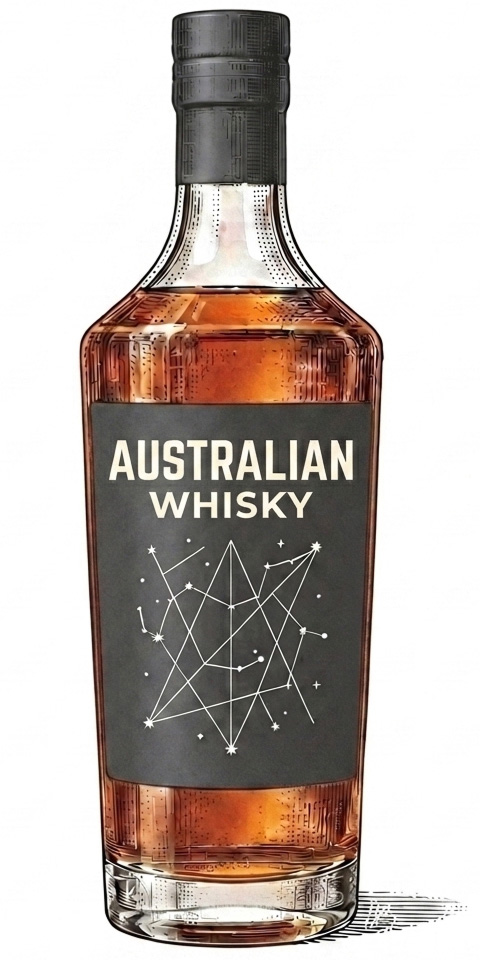
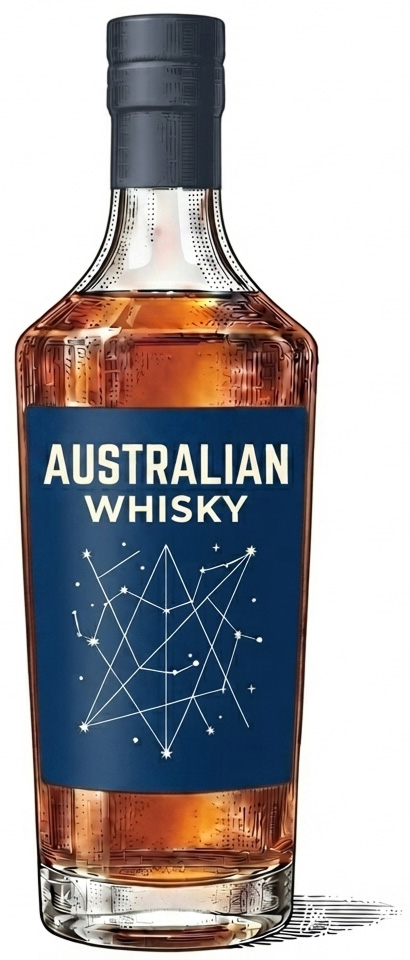
add custom themes for region legal info

diff --git a/assets/styles/themes/theme-regions.css b/assets/styles/themes/theme-regions.css
@@ -1,0 +1,57 @@
+.theme-region {
+	--color-background-primary: var(--color-palette-brown-400);
+	--color-border-primary: var(--color-palette-cream-50-alpha-50);
+	--color-text-primary: var(--color-palette-cream-50);
+	--color-text-secondary: var(--color-palette-white);
+	--color-text-accent: var(--color-palette-white);
+	background-color: var(--color-background-primary);
+	color: var(--color-text-primary);
+}
+
+.theme-region :where(strong, b) {
+	color: var(--color-text-secondary);
+}
+
+.theme-region-scotland {
+	--color-background-primary: var(--color-theme-scotland);
+}
+
+.theme-region-ireland {
+	--color-background-primary: var(--color-theme-ireland);
+}
+
+.theme-region-us {
+	--color-background-primary: var(--color-theme-us);
+}
+
+.theme-region-japan {
+	--color-background-primary: var(--color-theme-japan);
+}
+
+.theme-region-canada {
+	--color-background-primary: var(--color-theme-canada);
+}
+
+.theme-region-india {
+	--color-background-primary: var(--color-theme-india);
+}
+
+.theme-region-taiwan {
+	--color-background-primary: var(--color-theme-taiwan);
+}
+
+.theme-region-australia {
+	--color-background-primary: var(--color-theme-australia);
+}
+
+.theme-region-new-zealand {
+	--color-background-primary: var(--color-theme-new-zealand);
+}
+
+.theme-region-european-union {
+	--color-background-primary: var(--color-theme-european-union);
+}
+
+.theme-region-denmark {
+	--color-background-primary: var(--color-theme-denmark);
+}

diff --git a/assets/scripts/views/regions-view.js b/assets/scripts/views/regions-view.js
@@ -178,12 +178,12 @@ export class RegionsView {
 
 	renderLegalFramework(region) {
 		return `
-			<div class="region-legal theme-accent">
+			<div class="region-legal theme-region theme-${this.getRegionId(region)}">
 				<h3 class="region-legal-title text-label">
 					<svg class="svg-icon region-legal-title-icon" aria-hidden="true" focusable="false"><use href="/assets/images/icon-sprite.svg#icon-gavel"></use></svg>
 					LEGAL FRAMEWORK
 				</h3>
-				<ul class="region-legal-list text-body-sm">
+				<ul class="region-legal-list text-body-md">
 					${region.legalFramework.map(rule => `
 						<li><strong>${escapeHtml(rule.label)}:</strong> ${escapeHtml(rule.value)}</li>
 					`).join('')}
@@ -254,7 +254,7 @@ export class RegionsView {
 									data-map-highlight-image="${escapeHtml(sub.mapHighlightImage)}"
 									tabindex="0"
 								>
-									<h5>${escapeHtml(sub.name)}</h5>
+									<h4 class="text-heading-sm text-color-accent margin-bottom-none">${escapeHtml(sub.name)}</h4>
 									<p class="text-body-sm">${escapeHtml(sub.description)}</p>
 								</div>
 							`;

diff --git a/assets/styles/variables.css b/assets/styles/variables.css
@@ -42,6 +42,18 @@
 	--color-theme-spicy: #d03f22;
 	--color-theme-sulphury-feinty: #3088a5;
 
+	--color-theme-scotland: #2f4023;
+	--color-theme-ireland: #4f7045;
+	--color-theme-us: #703511;
+	--color-theme-japan: #9c332b;
+	--color-theme-canada: #4e2455;
+	--color-theme-india: #6e4f31;
+	--color-theme-taiwan: #916C2B;
+	--color-theme-australia: #03356f;
+	--color-theme-new-zealand: #AF5C2C;
+	--color-theme-european-union: #6d5b51;
+	--color-theme-denmark: #211e1a;
+
 	--flavor-color-base: #cc0000;
 }
 

diff --git a/assets/styles/styles.css b/assets/styles/styles.css
@@ -19,6 +19,7 @@
 @import "themes/theme-accent.css" layer(themes);
 @import "themes/theme-primary.css" layer(themes);
 @import "themes/flavor-themes.css" layer(themes);
+@import "themes/theme-regions.css" layer(themes);
 
 /* Components */
 /* --------------------------------------------------------------- */

diff --git a/assets/styles/utilities.css b/assets/styles/utilities.css
@@ -176,3 +176,7 @@
 .text-color-accent {
 	color: var(--color-text-accent);
 }
+
+.margin-bottom-none {
+	margin-bottom: 0;
+}
